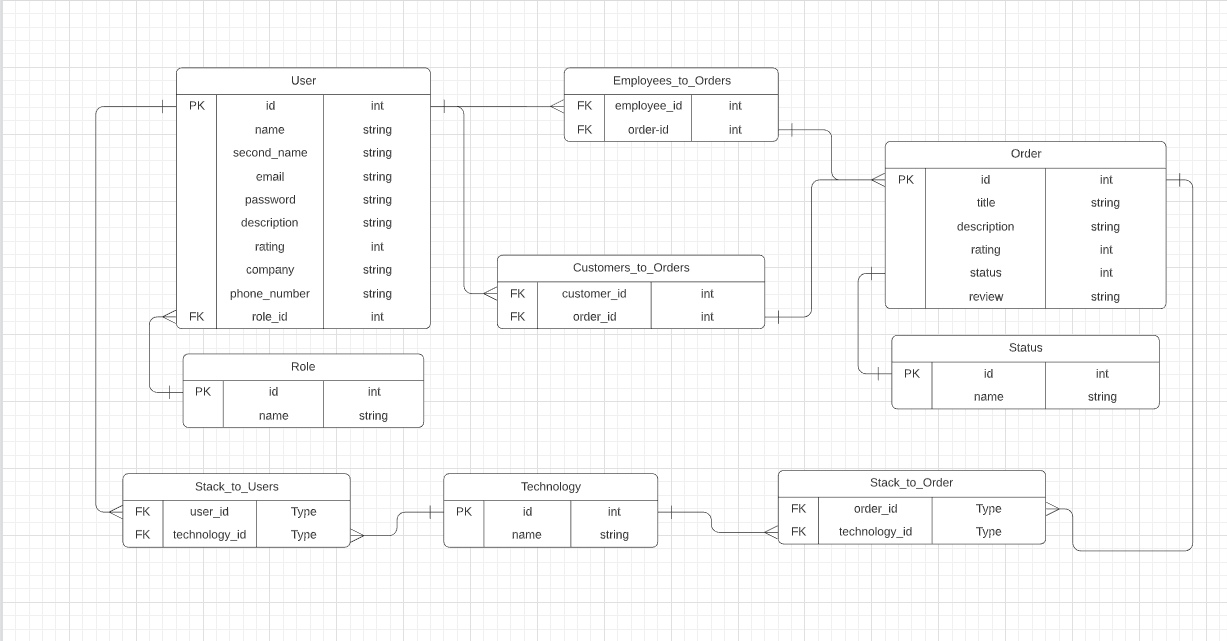
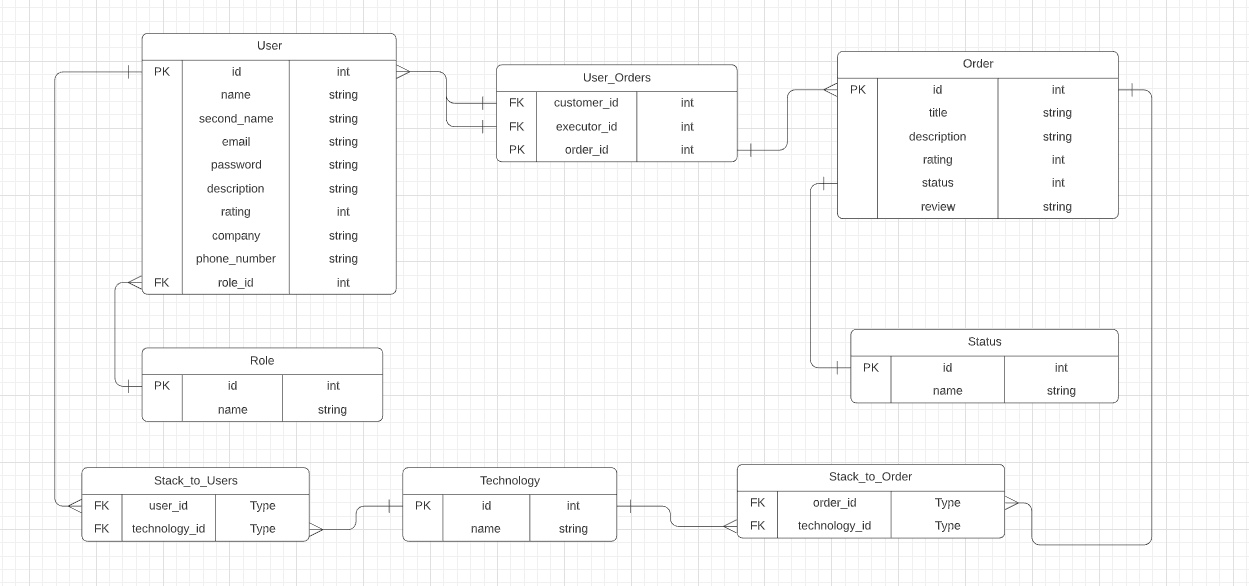
add Models and DB architecture

diff --git a/HeyWork/heywork/models.py b/HeyWork/heywork/models.py
@@ -13,15 +13,19 @@ class User(models.Model):
     phone_number = PhoneNumberField(null=False, blank=False, unique=True)
     role_id = models.ForeignKey('Role',on_delete=models.CASCADE)    
 
-
 class Order(models.Model):
     id = models.AutoField(primary_key=True)
     title = models.CharField()
     description = models.TextField()
     rating = models.FloatField()
 
+class Users_Order(models.Model):
+    customer_id = models.ForeignKey(User,on_delete = models.CASCADE)
+    executor_id = models.ForeignKey(User,on_delete = models.CASCADE)
+    order_id = models.ForeignKey(Order,on_delete = models.CASCADE)
+
 class Status(models.Model):
-    id = models.OneToOneField(Order,on_delete=models.CASCADE,primary_key=True)
+    id = models.OneToOneField(Order,on_delete = models.CASCADE,primary_key=True)
     name = models.CharField()
 
 
